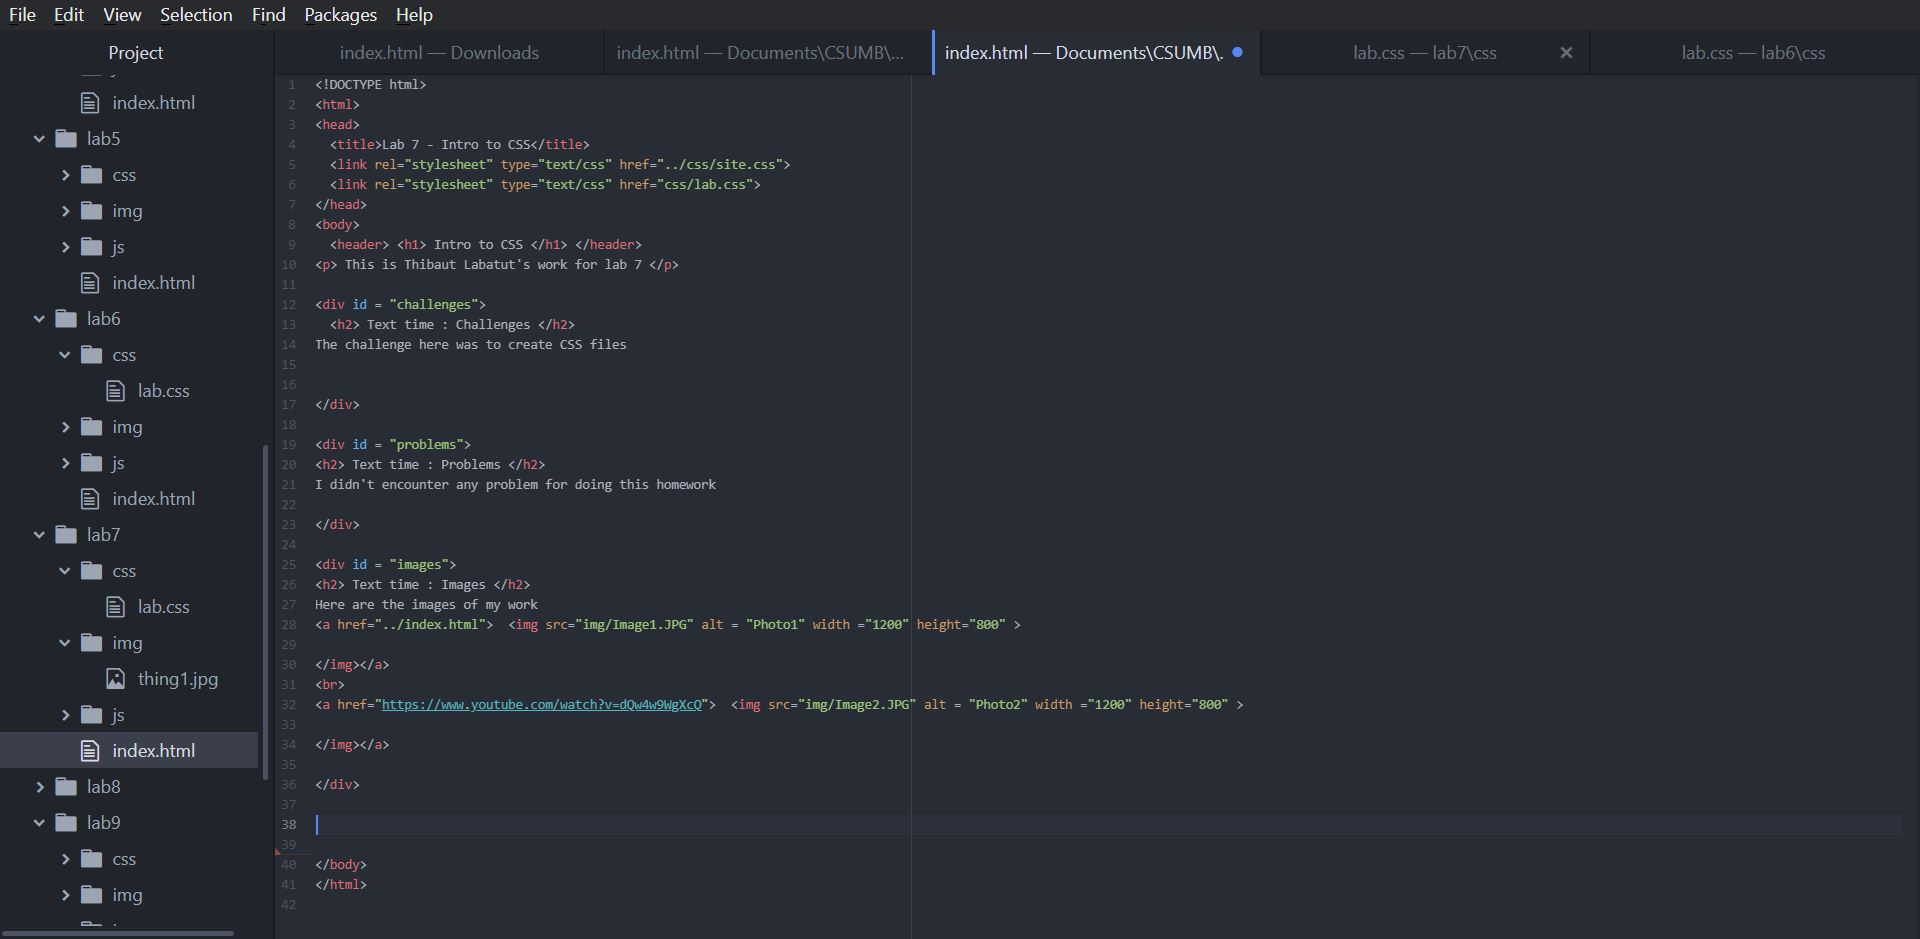
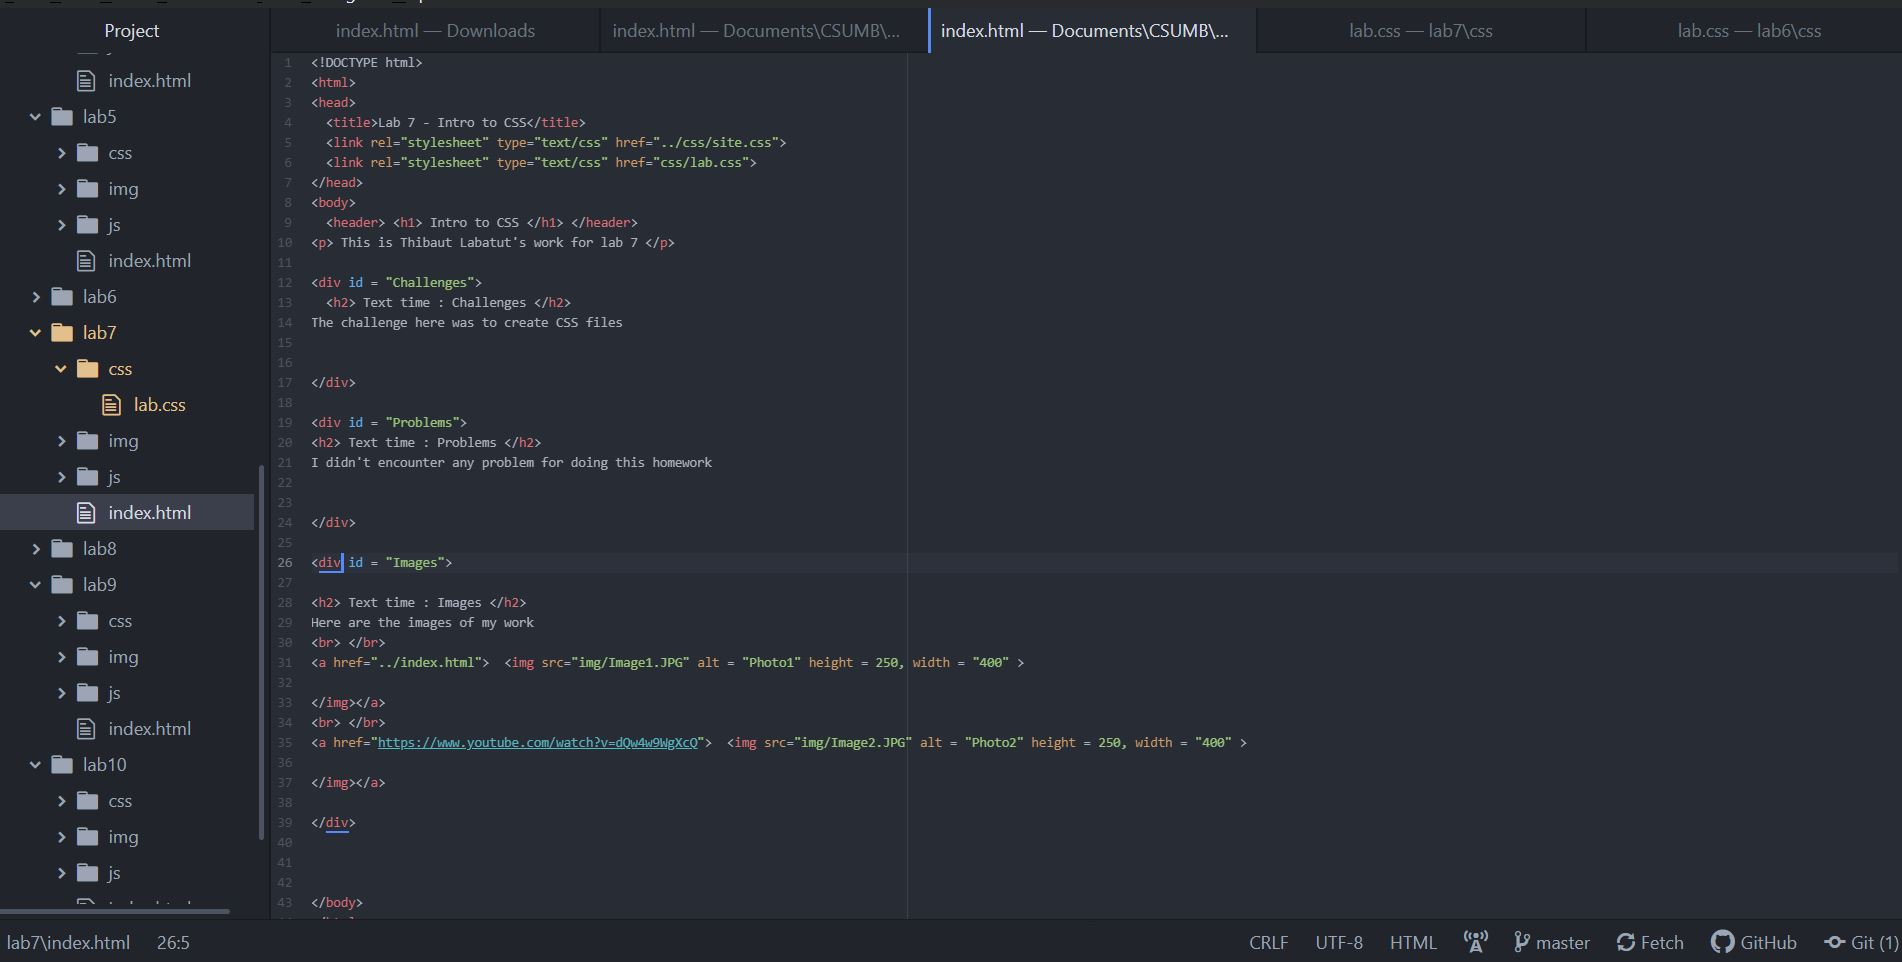
change image

diff --git a/lab7/css/lab.css b/lab7/css/lab.css
@@ -6,9 +6,15 @@ body {
 
 
 div#Challenges {
-  color: blue
+  padding: 50px;
+  color: blue;
   border: 1px solid  currentcolor;
-  padding: 2px;
+
+}
+div#Problems {
+  padding: 50px;
+  color: darkblue;
+  border: 1px  solid currentcolor;
 }
 
 div#Images {
@@ -17,11 +23,7 @@ div#Images {
   border: 1px  solid currentcolor;
 }
 
-div#Problems {
-  padding: 50px;
-  color: darkgray;
-  border: 1px  solid currentcolor;
-}
+
 
 
 h1, h2, h3 {
